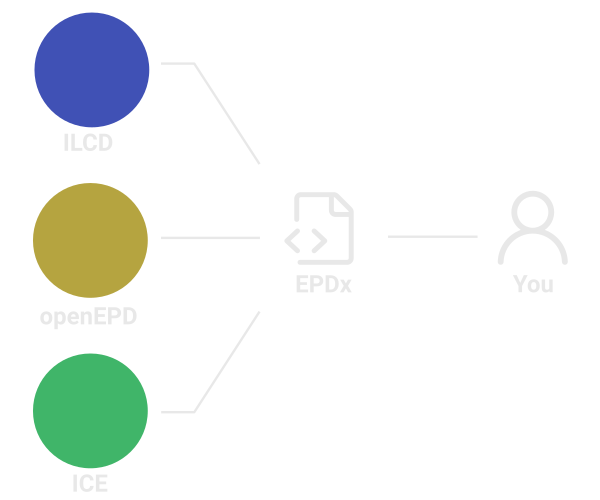
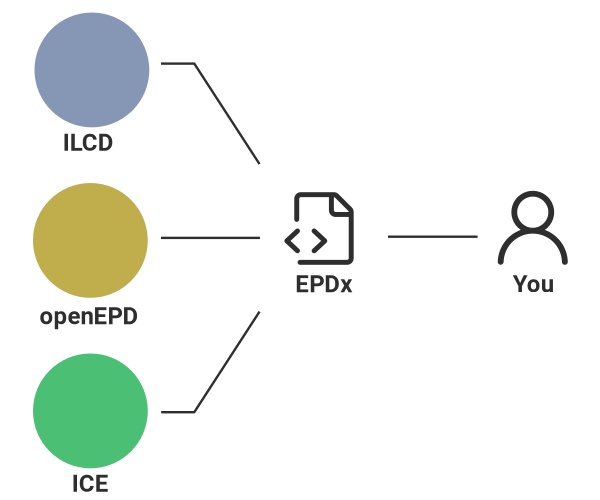
docs: updated style

diff --git a/docs/overrides/stylesheets/extra.css b/docs/overrides/stylesheets/extra.css
@@ -1,10 +1,12 @@
 [data-md-color-scheme="chrkong"] {
-    --md-primary-fg-color: #4051b5;
+    --md-primary-fg-color: #8697b6ff;
     --md-primary-bg-color: #e8e8e8ff;
-    --md-default-bg-color: #2e2e2eff;
-    --md-typeset-color: #e8e8e8ff;
-    --md-default-fg-color--light: #e8e8e8ff;
-    --md-footer-bg-color: #2e2e2eff;
-    --md-typeset-a-color: #4051b5;
-    --md-accent-fg-color: #4051b5;
+    --md-default-bg-color: #e8e8e8ff;
+    --md-typeset-color: #2e2e2eff;
+    --md-default-fg-color--light: #2e2e2eff;
+    --md-footer-bg-color: #e8e8e8ff;
+    --md-footer-fg-color: #2e2e2eff;
+    --md-typeset-a-color: #334397;
+    --md-accent-fg-color: #8697b6;
+    --md-accent-bg-color--light: #2e2e2eff;
 }
